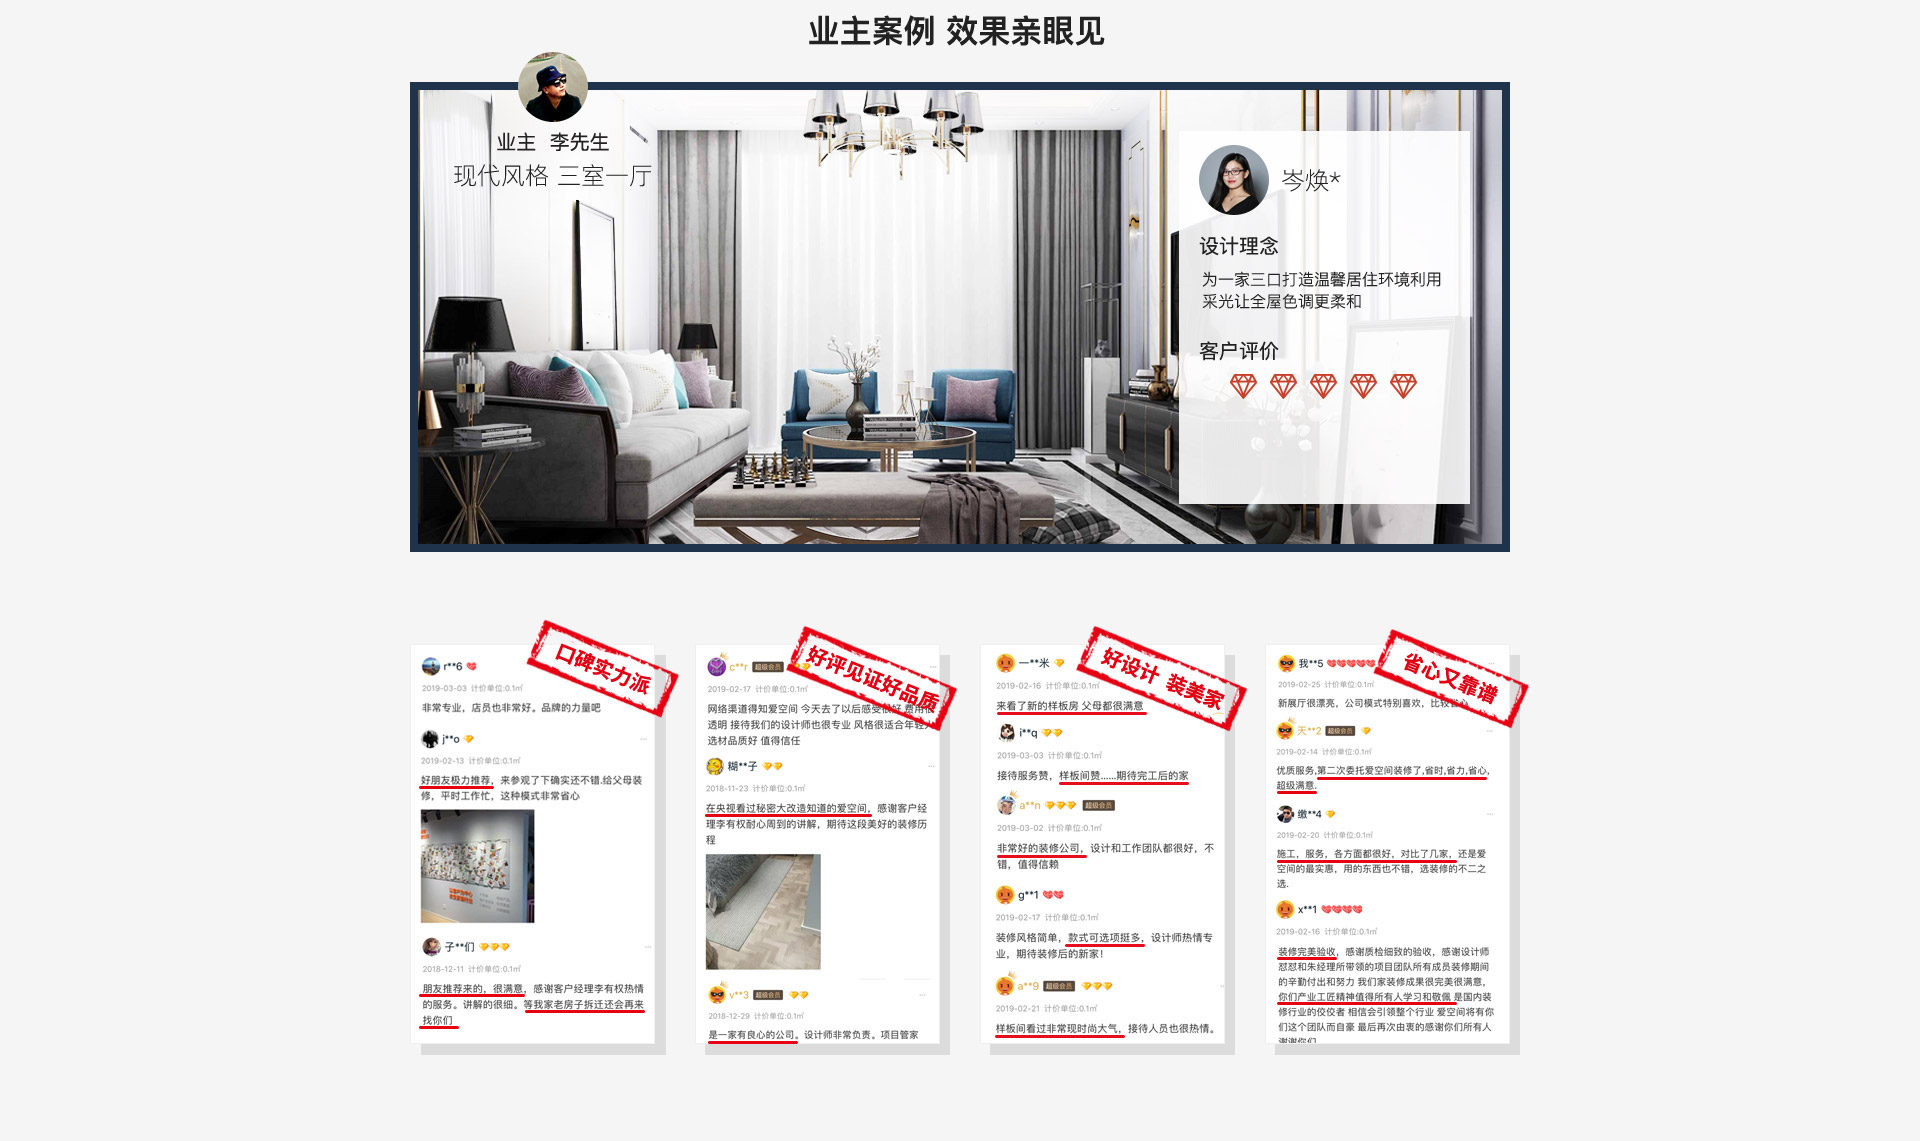
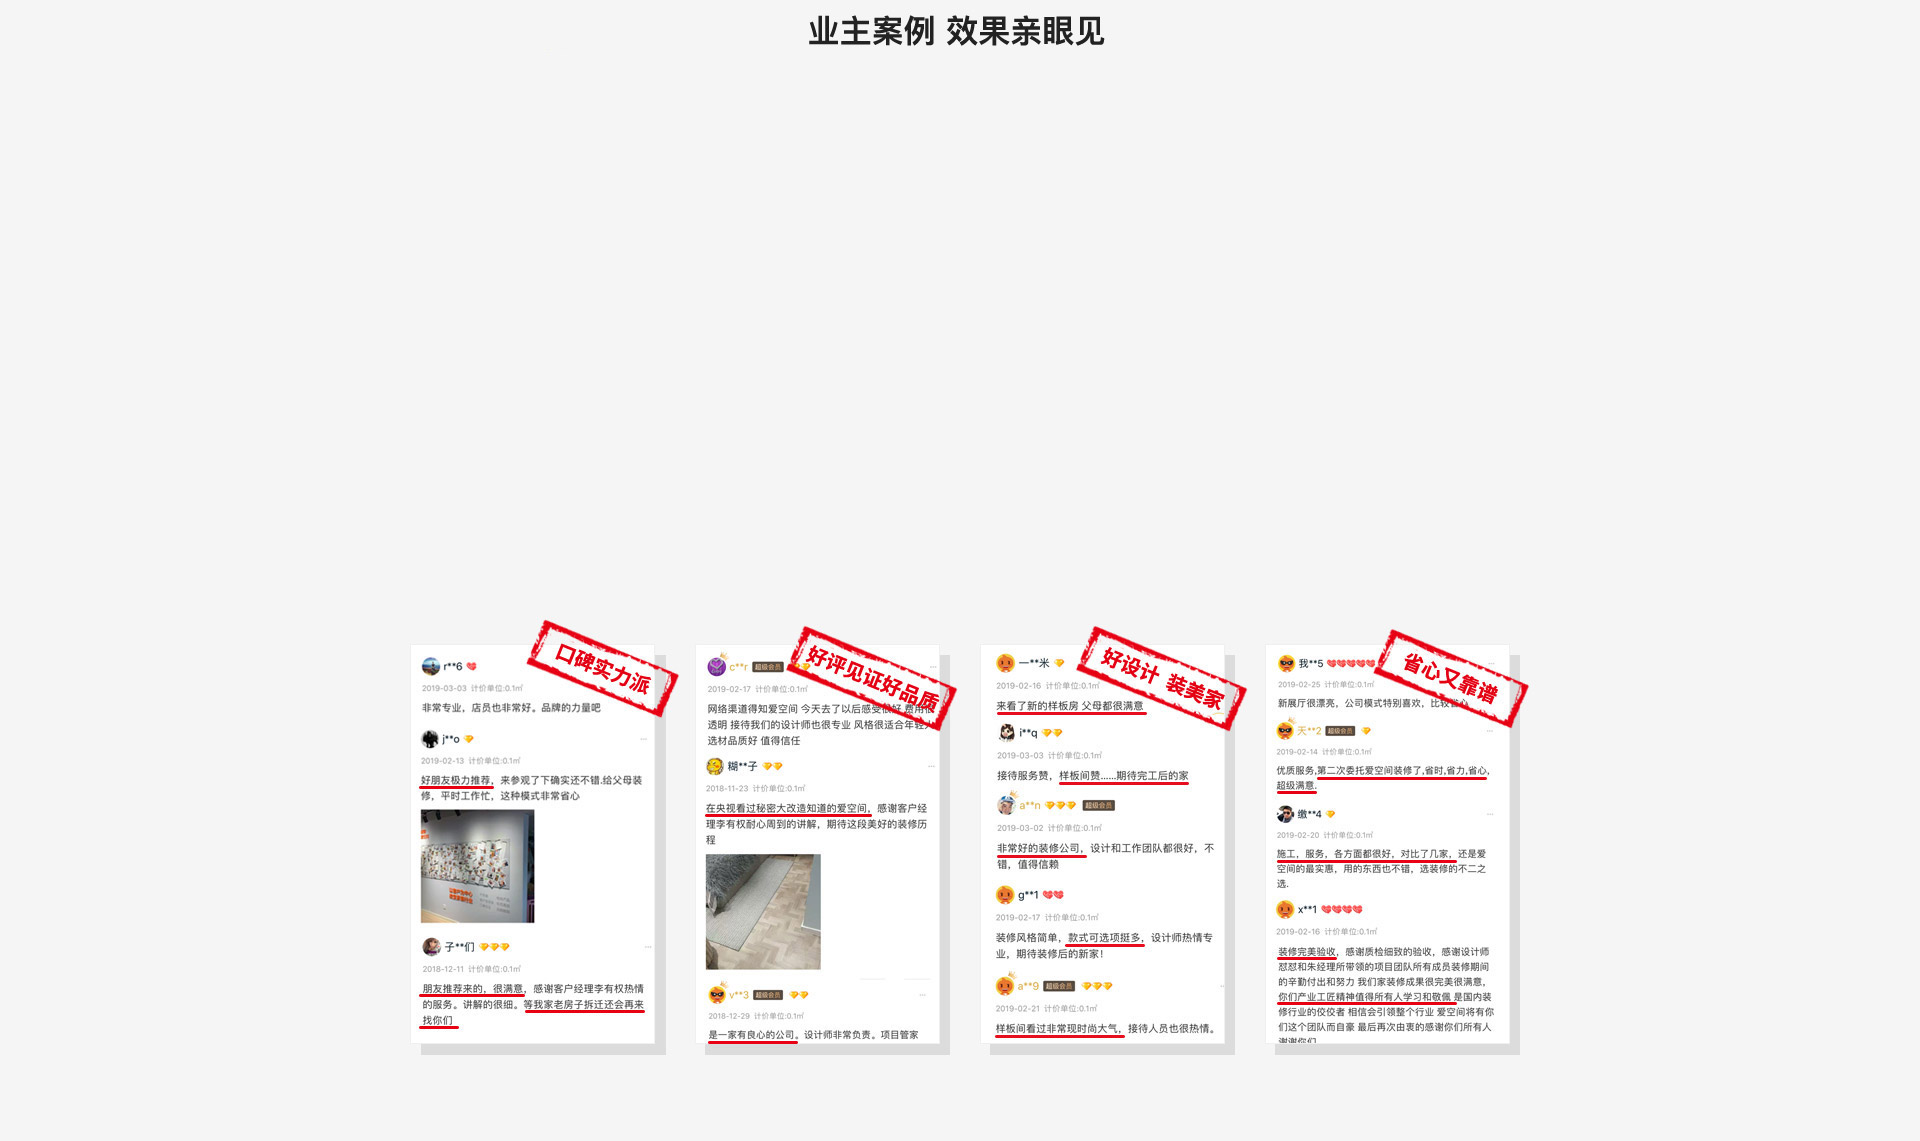
s

Changed region(s): [[0.1875, 0.0307, 0.8125, 0.4908]]

diff --git a/www/index.html b/www/index.html
@@ -164,7 +164,27 @@
     </div>
     <div class="actSecH">
         <div class="actSecCon">
-            <a class="actPopBtn" href="javascript:;">领这套装修方案</a>
+            <div class="actCase">
+                <div class="bd">
+                    <ul>
+                        <li>
+                            <img src="images/case_1.jpg">
+                            <a class="actPopBtn" href="javascript:;">领这套装修方案</a>
+                        </li>
+                        <li>
+                            <img src="images/case_2.jpg">
+                            <a class="actPopBtn" href="javascript:;">领这套装修方案</a>
+                        </li>
+                        <li>
+                            <img src="images/case_3.jpg">
+                            <a class="actPopBtn" href="javascript:;">领这套装修方案</a>
+                        </li>
+                    </ul>
+                </div>
+                <div class="hd">
+                    <ul><li></li><li></li><li></li></ul>
+                </div>
+            </div>
         </div>
     </div>
     <div class="actSecI"></div>
@@ -173,30 +193,29 @@
             <div class="didi"><a class="actPopBtn">立即领取</a></div>
             <div class="orderBox">
                 <div class="order">
-                <div class="hd">
-                    <p>已有<span>1242325</span>业主获得服务 并装完了房子</p>
+                    <div class="hd">
+                        <p>已有<span>1242325</span>业主获得服务 并装完了房子</p>
+                    </div>
+                    <form>
+                        <p>
+                            <label for=""><img src="images/city.png" class="城市"></label>
+                            <select id="">
+                                <option>选择房屋所在城市</option>
+                            </select>
+                        </p>
+                        <p>
+                            <label for=""><img src="images/user.png" alt="姓名"></label>
+                            <input id="" type="text" value="" placeholder="您的称呼，如王先生/刘女士">
+                        </p>
+                        <p>
+                            <label for=""><img src="images/phone.png" alt="联系方式"></label>
+                            <input type="tel" value="" placeholder="联系方式，便于提供0元装修服务">
+                        </p>
+                        <button id="button2">立即领取</button>
+                        <p class="tips">为了您的隐私和我们的声誉 您的信息爱空间将严格保密</p>
+                    </form>
                 </div>
-                <form>
-                    <p>
-                        <label for=""><img src="images/city.png" class="城市"></label>
-                        <select id="">
-                            <option>选择房屋所在城市</option>
-                        </select>
-                    </p>
-                    <p>
-                        <label for=""><img src="images/user.png" alt="姓名"></label>
-                        <input id="" type="text" value="" placeholder="您的称呼，如王先生/刘女士">
-                    </p>
-                    <p>
-                        <label for=""><img src="images/phone.png" alt="联系方式"></label>
-                        <input type="tel" value="" placeholder="联系方式，便于提供0元装修服务">
-                    </p>
-                    <button id="button2">立即领取</button>
-                    <p class="tips">为了您的隐私和我们的声誉 您的信息爱空间将严格保密</p>
-                </form>
             </div>
-            </div>
-            <p class="copyright">爱空间科技（北京）有限公司 版权所有京ICP备15007819号-1</p>
         </div>
     </div>
 </div>
@@ -330,6 +349,13 @@
         });
         //效果图
         $(".actDesigner").slide({
+            mainCell:".bd ul",
+            titCell:".hd ul",
+            effect: "leftLoop",
+            delayTime: "1000",
+            autoPlay: true
+        });
+        $(".actCase").slide({
             mainCell:".bd ul",
             effect: "leftLoop",
             delayTime: "1000",

diff --git a/www/images/style.css b/www/images/style.css
@@ -393,7 +393,41 @@ img {
     display: block;
 }
 .actSecH .actSecCon{
-    padding: 420px 0 0 791px;
+    padding-top: 52px;
+}
+
+.actSecH .actCase{
+    height: 500px;
+}
+.actSecH .actCase .bd li{
+    position: relative;
+}
+
+.actSecH .actCase .bd li a{
+    position: absolute;
+    top: 368px;
+    left: 792px;
+    z-index: 1;
+}
+
+.actSecH .actCase .hd{
+    position: absolute;
+    width: 100%;
+    text-align: center;
+    bottom: 20px;
+}
+
+.actSecH .actCase .hd li{
+    display: inline-block;
+    margin: 0 10px;
+    width: 15px;
+    height: 15px;
+    border-radius: 10px;
+    background: #b0b0b0;
+}
+
+.actSecH .actCase .hd li.on{
+    background: #c4442e;
 }
 
 .actSecH a{
@@ -469,10 +503,14 @@ img {
     text-align: center;
 }
 .rightBar a.btn_1{
-    background: #ca3a2d;
+    background: #233f65;
 }
 .rightBar a.btn_3{
     background: #233f65;
+}
+
+.rightBar a:hover{
+    background: #ca3a2d;
 }
 
 .rightBar .redBag {
